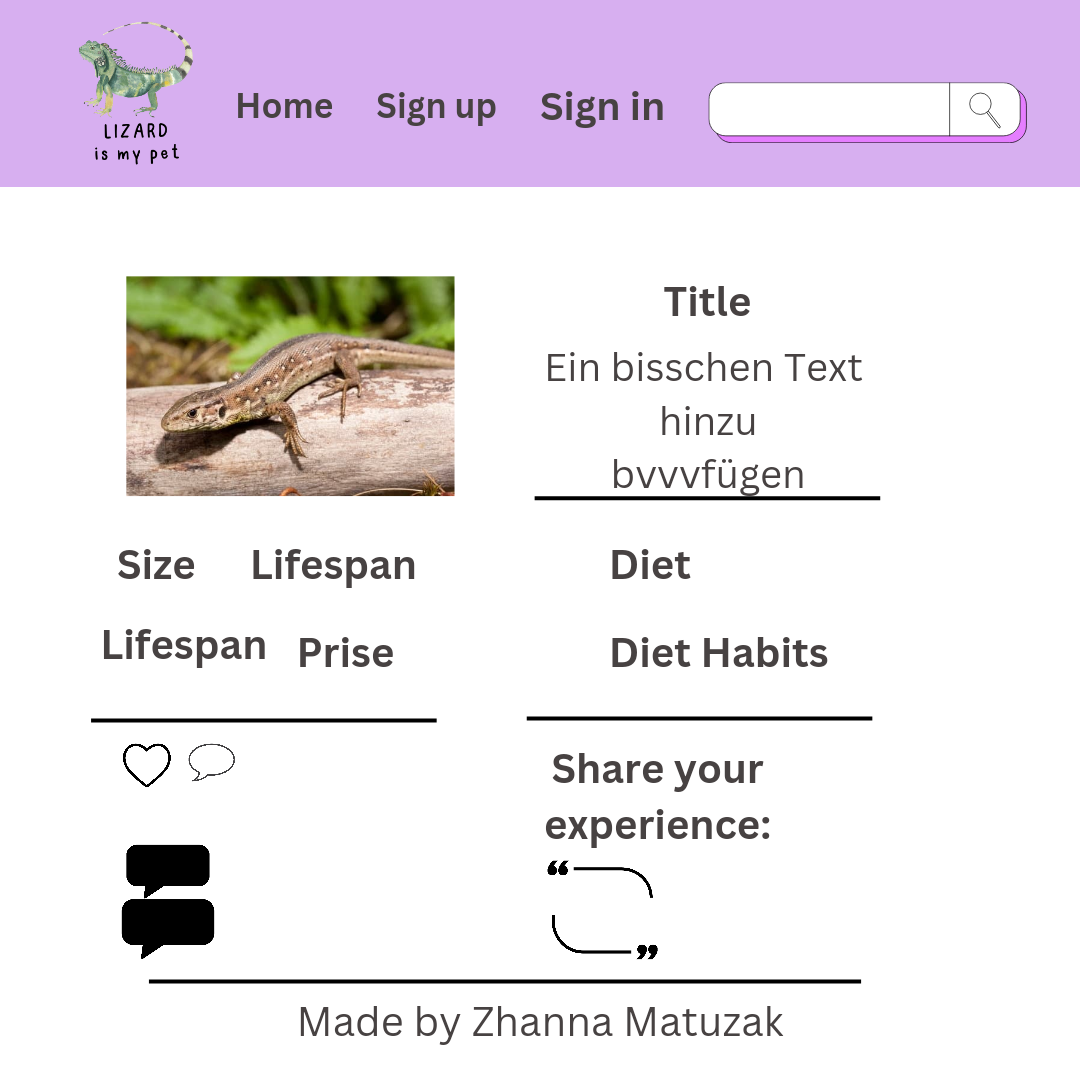
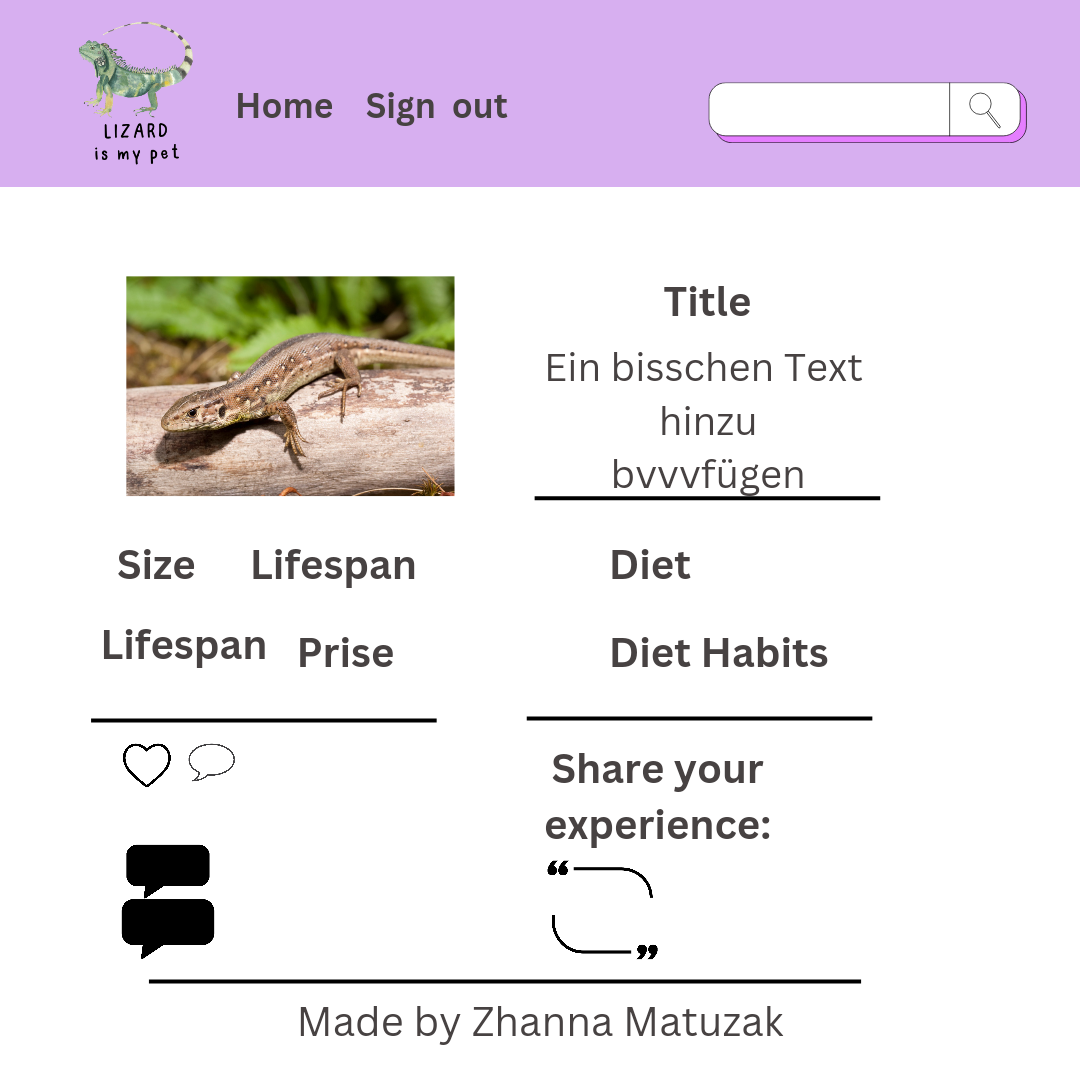
Add scope section and make changes to navbar

Changed region(s): [[0.3361, 0.0611, 0.6111, 0.1222], [0.1528, 0.3361, 0.275, 0.3972], [0.3667, 0.4278, 0.3972, 0.4583]]

diff --git a/templates/blog/base.html b/templates/blog/base.html
@@ -43,6 +43,9 @@
                     <li class="nav-item">
                         <a class="nav-link" href="{% url 'account_logout' %}">Sign out</a>
                     </li>
+                    <li class="nav-item"> 
+                        <span>  {{ request.user }} <i class="fa-regular fa-user"></i></span> 
+                    </li>
                     {% else %}
                     <li class="nav-item">
                         <a class="nav-link" href="{% url 'account_signup' %}">Sign up</a>

diff --git a/README.md b/README.md
@@ -18,13 +18,29 @@ Ensuring the successful implementation of user stories is fundamental to this pr
 
 To access comprehensive details, including acceptance criteria and tasks for each user story, please refer to the linked project above. Additionally, each story is categorized with a labeled indicator, signifying its importance to the overall functionality and acceptability of the site.
 
+### Scope
+
+- Admin created lizards (posts) with full CRUD functionality from the backend;
+- Lizards (posts) List and Detailed Lizard webpages;
+- User account creation;
+- User shared experiences (comments) with full front-end CRUD functionality;
+- User likes with full front-end CRUD functionality;
+- Identify and show seit user mumber of shared experiences (comments) per Lizard (post).
+
 ### Wireframes
 
 The initial wireframes in [canva](https://www.canva.com/) are an overly simplified version of the finished product and merely served the purpose of listing most of the site's essential features.
 
+#### Home Page
+
 ![home page wireframe](documentation/home_page_wireframe.png)
+
+#### Detailed view of a Post
+
 ![detailed view of the post](documentation/detailed_view_wireframe.png)
-Not all features and functions are covered by these first drafts. 
+
+Not all features and functions are covered by these wto drafts.
+
 About all existing features read below ↓↓↓
 
 ---
